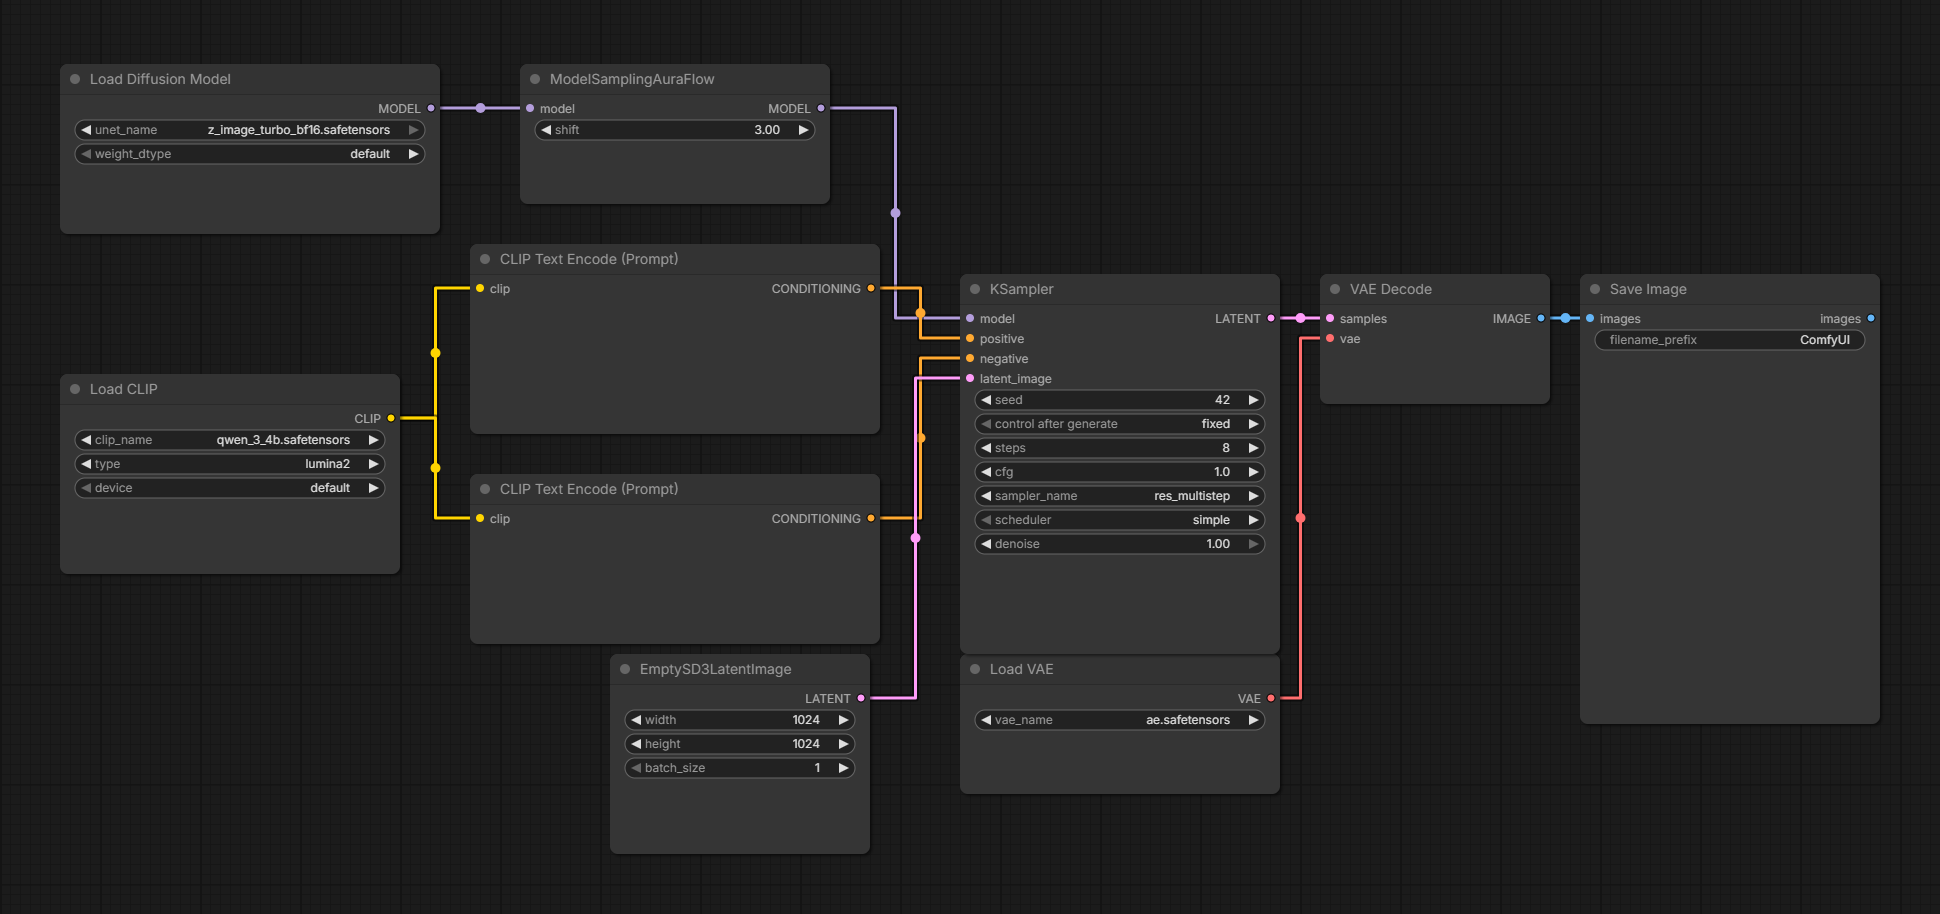
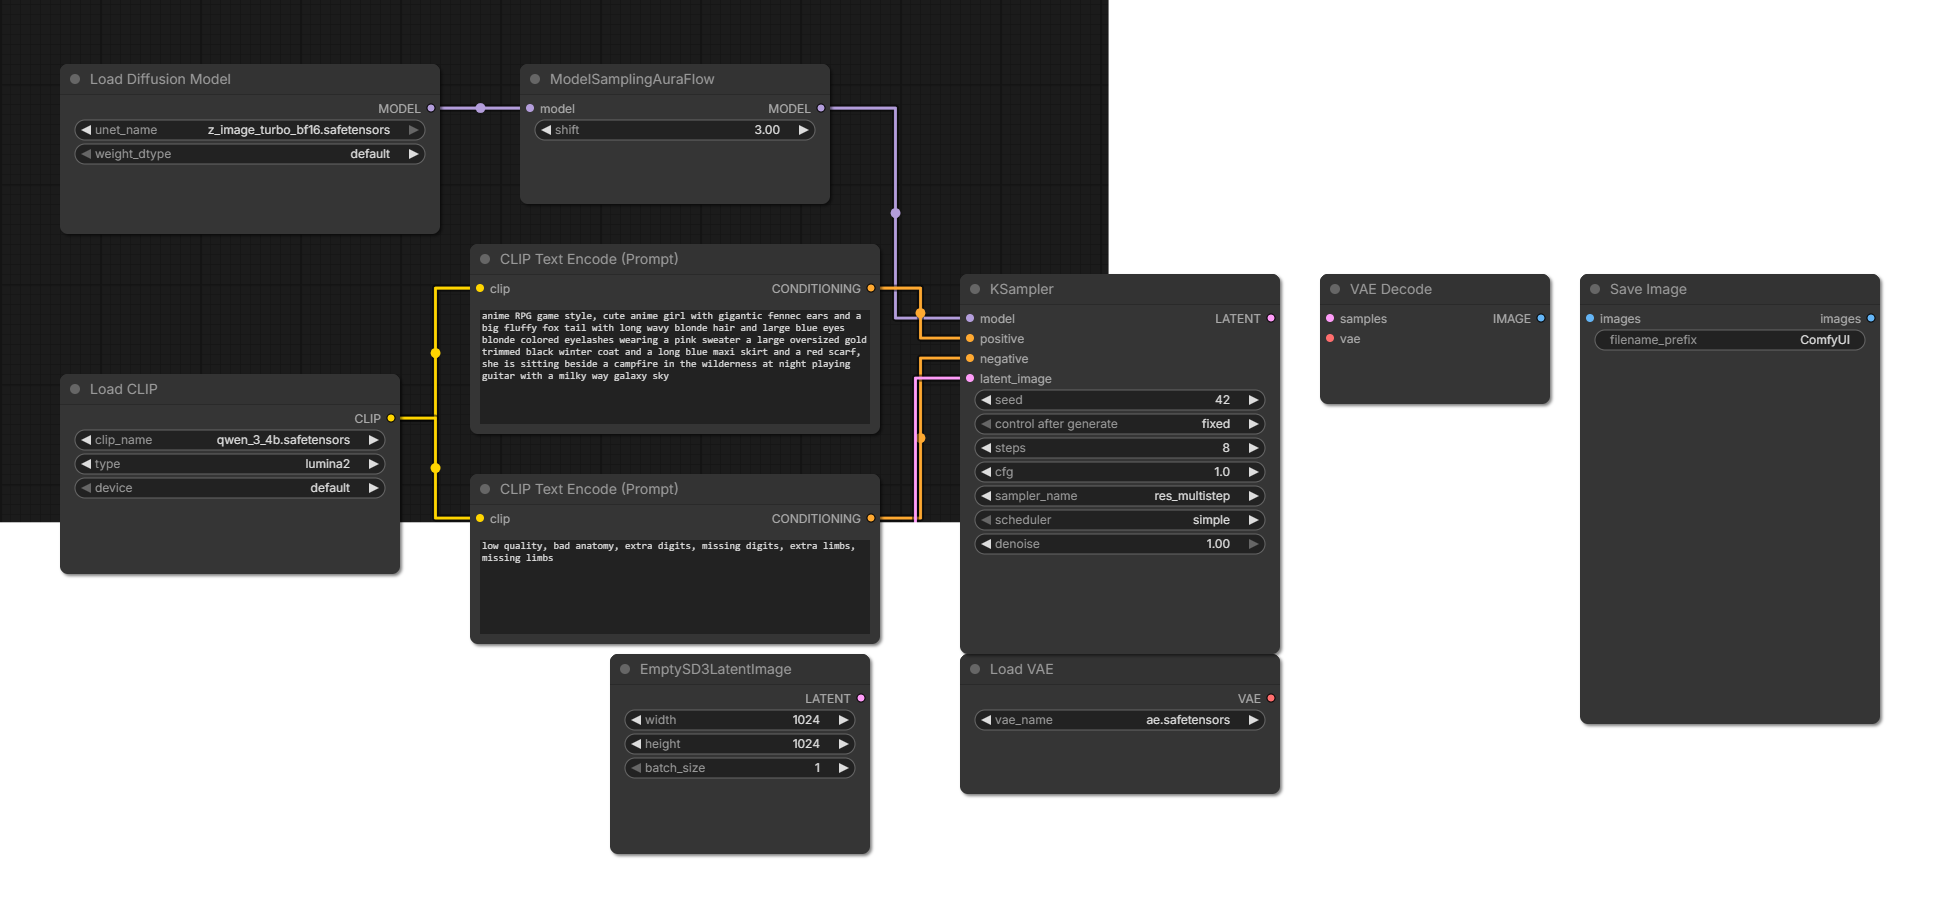
The screenshot has the prompts in it now
Yesterday's caveat is obsolete: the capture paints multiline text back in
(connect f587a21), so the guide and README no longer tell people the one
thing they most want to see is missing. What is left is the honest
residue — the text is drawn, so a prompt long enough to scroll in the real
box is clipped in the picture.

`canvas-screenshot.png` reshot with the fix in place. The version shipped
yesterday had two CLIP Text Encode nodes with empty boxes, which is the
bug rather than an illustration of the feature.

Claude-Session: https://claude.ai/code/session_01VXim3HxTfxvnKf3G9cozNt

diff --git a/README.md b/README.md
@@ -30,7 +30,7 @@ An AI agent that constructs and executes [ComfyUI](https://github.com/comfyanony
 - **Refine loops on your own graph** — *"change the prompt until the woman's position matches the original frame"*. With a workflow already open in the canvas and no hook nodes at all, the agent runs **your** graph, judges each output against the condition you stated (same judge as QA, comparing against the images your graph loads), rewrites one value, and goes again — stopping the run it lands on, or when the budget (`[refine] max_runs`, default 4) is spent. You watch the value change in your own node, and typing anything stops it. See [Loops](docs/using-agentY.md#loops-keep-trying-until-its-right).
 - **Web references, straight onto the canvas** — *“search the web for images of this car, from every angle”*. The agent searches, picks, downloads into ComfyUI's `input` dir, and every picture it keeps is dropped on your graph as a loader node — downloading **is** showing, with no extra step. Name a number and it stages that many; otherwise it takes the best one or two. Watermarked stock previews are skipped, and a hotlink block served at `…/photo.jpg` is never placed as a node that would show nothing. See [Finding references](docs/using-agentY.md#finding-reference-images-on-the-web).
 - **Fill a slot nothing is wired to** — an unwired input is *absent* from the graph, so ten empty reference slots look exactly like a node that has none. The agent reads what the node really declares from ComfyUI's schema, adds a loader and connects it — for that run only, leaving your canvas untouched. That is what makes *“run those two again, but with this photo as a reference”* work. See [Filling a slot](docs/using-agentY.md#filling-a-slot-nothing-is-wired-to).
-- **Screenshots of your canvas** — *"send me a screenshot of my workflow on Slack"*. The picture is drawn by the ComfyUI page itself, so it is your graph as **you** have it — your layout, groups, colours and collapsed nodes — and your view is put back before the browser paints, so nothing moves on screen. Multiline text (prompts, hook directives) is an HTML overlay above the canvas and so is *not* in the picture — titles, widget values, groups, colours and wiring are. A graph too large to draw at readable zoom comes back as a labelled overview and the agent says so; select the part you care about and it is photographed at full size. The agent is also told when several workflows are open in ComfyUI's tabs, and that only the active one is live. See [Screenshots](docs/using-agentY.md#screenshots-of-your-workflow).
+- **Screenshots of your canvas** — *"send me a screenshot of my workflow on Slack"*. The picture is drawn by the ComfyUI page itself, so it is your graph as **you** have it — your layout, groups, colours and collapsed nodes — and your view is put back before the browser paints, so nothing moves on screen. Prompts and hook directives are HTML boxes floating above the canvas, invisible to a canvas capture, so agentY paints them back in at the size and position the real box has — the picture has the text a screenshot would. A graph too large to draw at readable zoom comes back as a labelled overview and the agent says so; select the part you care about and it is photographed at full size. The agent is also told when several workflows are open in ComfyUI's tabs, and that only the active one is live. See [Screenshots](docs/using-agentY.md#screenshots-of-your-workflow).
 - **MCP support** — call tools from external **MCP servers** (config-driven `config/mcp.json`, `http`/`sse`/`stdio`, with `none` / `header` / **OAuth** auth). Ships with **Magnific** wired via OAuth (one-click *Authorize…* in Settings). See [MCP servers](docs/using-agentY.md#mcp-servers).
 - **Slack bridge (optional, off by default)** — a **second line** into the agent alongside the sidebar, never instead of it. Every turn is mirrored to your Slack DM as it runs, *including the ones you start in the panel*, so you can queue a render at the desk and watch it finish from a phone; a DM back drives the same conversation. Outbound **Socket Mode**, so nothing has to be reachable from the internet. See [Slack](docs/slack.md).
 - **Persistent chat history** — threads, messages, and the per-thread image gallery are stored in a self-contained local **SQLite** database (`memory/conversations.sqlite`). No Docker, Postgres, or S3.

diff --git a/docs/using-agentY.md b/docs/using-agentY.md
@@ -470,12 +470,11 @@ showing its shape and wiring with no labels on the nodes. The agent is told to s
 so rather than pretend otherwise. If you want to *read* something, select the part
 you mean and ask again — a handful of nodes is photographed at full size.
 
-**Multiline text does not appear in it.** Prompts, hook directives — anything in a
-big text box — are HTML overlays that ComfyUI floats *above* the canvas, and a
-canvas drawing cannot see them. Everything else is there: node titles, single-line
-widget values, groups, colours, wiring. So a screenshot is the right way to show
-someone the *shape* of a workflow and the wrong way to show them a prompt; for
-that, ask the agent to read it back to you.
+**Prompts are in it, but they are drawn in.** ComfyUI keeps multiline text in HTML
+boxes floating *above* the canvas, where a canvas drawing cannot see them, so
+agentY paints each one back in at the position and size the real box has. It
+matches, and the wrapping is the same — but if you ever see a prompt clipped
+where the real one scrolls, that is why.
 
 **It needs the browser open.** The picture is drawn by the ComfyUI page, so a
 closed tab means no picture. The agent will tell you that rather than sit waiting.
